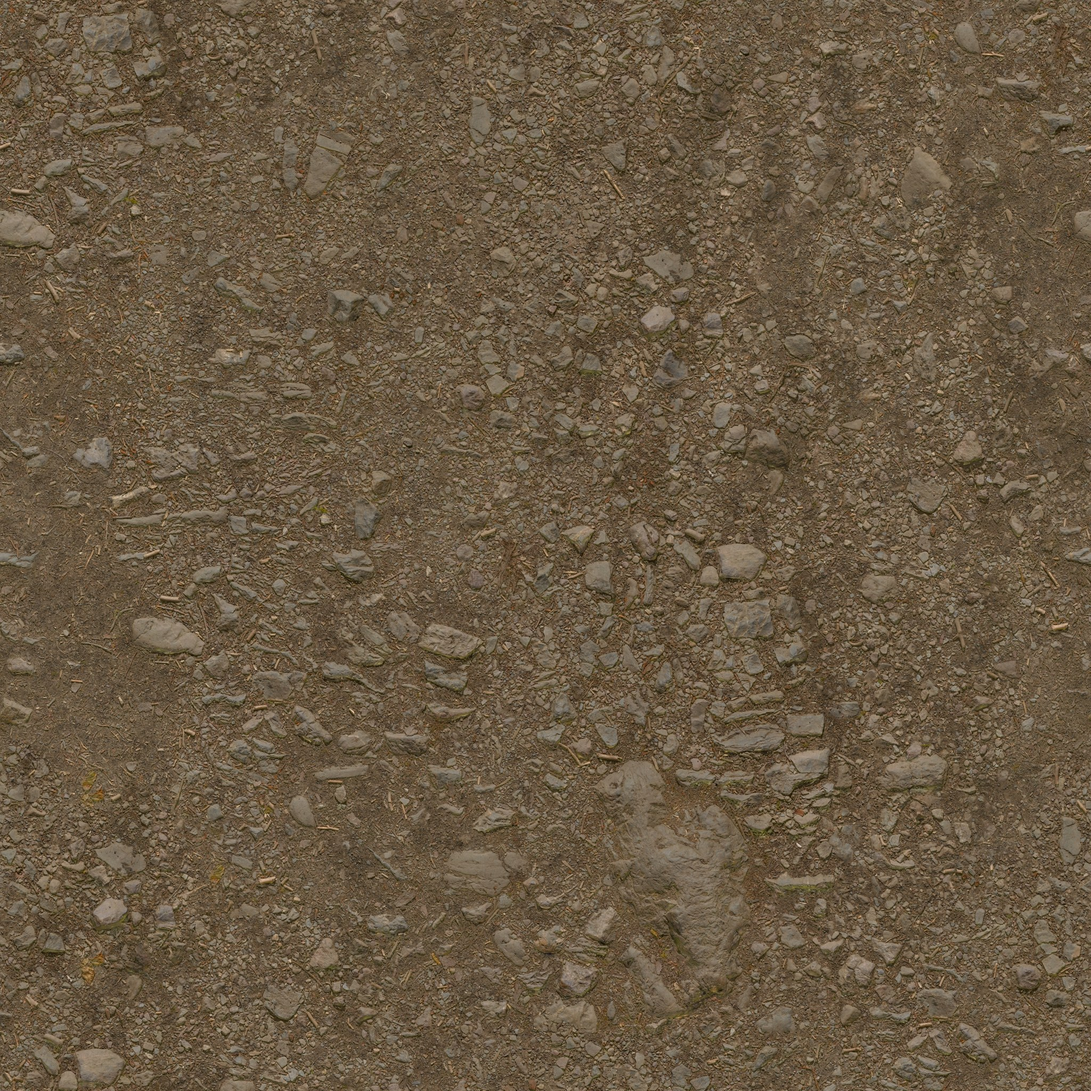
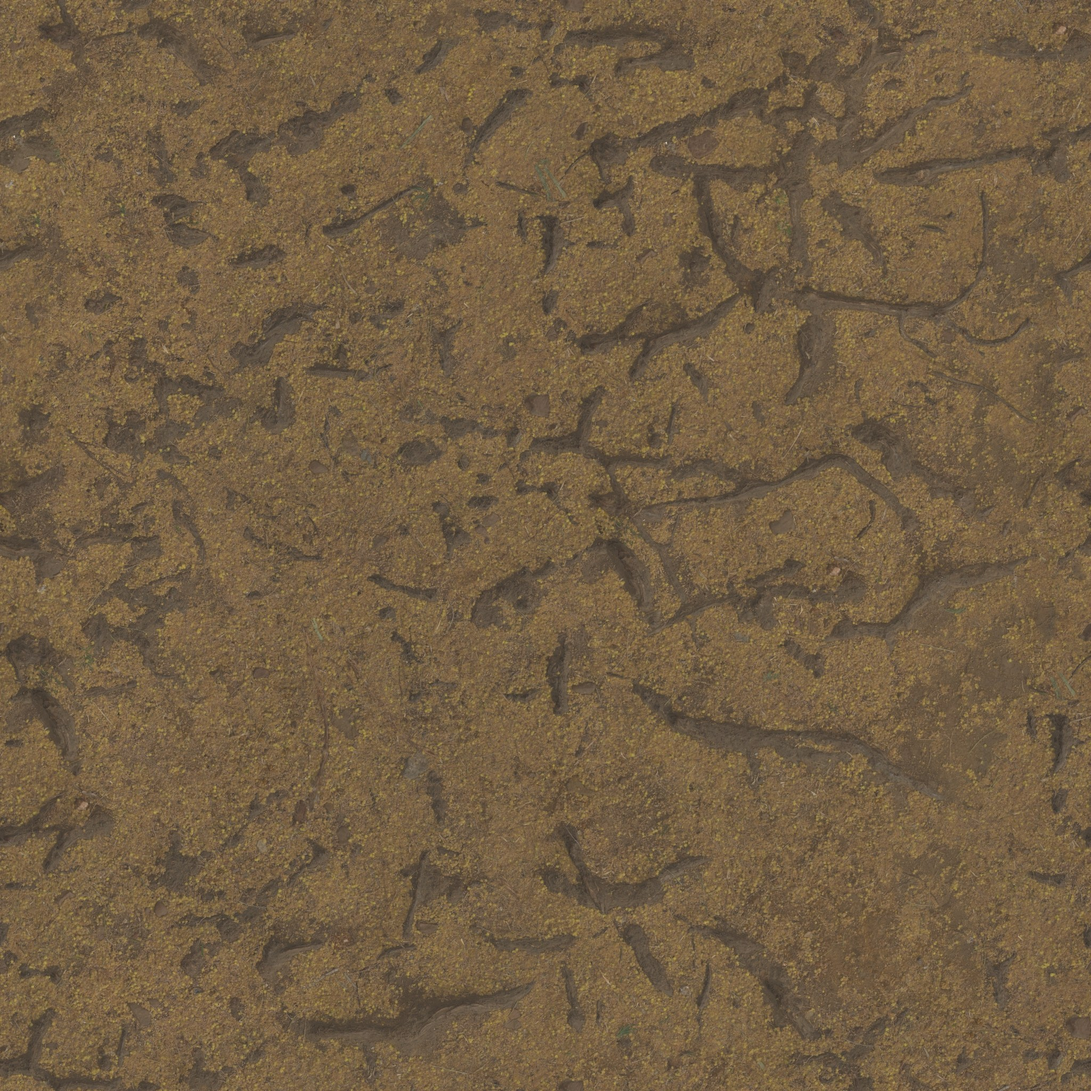
More photographic: neutral tone mapping, root-laced dirt trail, distant cover colour, matte plants
- tone mapping AgX -> Khronos PBR Neutral: sunlit litter keeps its hue instead of bleaching to beige
- trail: Poly Haven 'roots' (packed earth crossed by surface roots) replaces the grey stony ground
- ground beyond the plants' draw distance takes the colour of the vegetation that grows there
  (colonies, grass swards, general low cover), so open slopes do not read as bare sand
- understory drawn further out on phones; plant colonies shade and darken the ground under them
- foliage is matte (no sky sheen whitening blades), grass tinted greener, less ambient lift

Claude-Session: https://claude.ai/code/session_01JGA23ys72UNs4sZjYfki9c

diff --git a/nuri/src/world.js b/nuri/src/world.js
@@ -76,9 +76,10 @@ export class World {
     this.buildOutcrop();
     this.buildRockFaces();
     this.buildWater();
-    this.buildGroundAO();
+    this.colonies = [];
     this.buildPlants();
     this.buildGrass();
+    this.buildGroundAO();
     this.buildShafts();
   }
 
@@ -105,9 +106,24 @@ export class World {
     for (const r of this.rocks) stamp(r.x, r.z, r.x, r.z, r.r * 2 + 0.6, (d) => 1 - 0.55 * Math.exp(-Math.max(0, d - r.r * 0.8) / (0.2 + r.r * 0.3)));
     for (const l of this.logs) stamp(l.x1, l.z1, l.x2, l.z2, l.r * 3 + 0.4, (d) => 1 - 0.55 * Math.exp(-Math.max(0, d - l.r * 0.6) / (0.12 + l.r * 0.5)));
     for (const st of this.stumps) stamp(st.x, st.z, st.x, st.z, st.r * 3 + 0.4, (d) => 1 - 0.5 * Math.exp(-Math.max(0, d - st.r) / (0.15 + st.r * 0.4)));
-    const data = new Uint8Array(N * N);
-    for (let k = 0; k < N * N; k++) data[k] = Math.max(0, Math.min(255, ao[k] * 255));
-    const tex = new THREE.DataTexture(data, N, N, THREE.RedFormat); tex.magFilter = tex.minFilter = THREE.LinearFilter; tex.needsUpdate = true;
+    // the ground under a stand of plants is shaded and damp
+    for (const c of this.colonies || []) stamp(c.x, c.z, c.x, c.z, c.r * 1.2, (d) => 1 - 0.32 * c.k * smoothstep(c.r * 1.1, c.r * 0.3, d));
+    // vegetation cover: beyond the plants' draw distance the ground itself takes on their colour, so open slopes
+    // read as overgrown instead of bare at a distance
+    const cov = new Float32Array(N * N);
+    const covStamp = (x, z, R, k) => {
+      const i0 = Math.max(0, Math.floor((x - R + half) / cell)), i1 = Math.min(N - 1, Math.ceil((x + R + half) / cell));
+      const j0 = Math.max(0, Math.floor((z - R + half) / cell)), j1 = Math.min(N - 1, Math.ceil((z + R + half) / cell));
+      for (let j = j0; j <= j1; j++) for (let i = i0; i <= i1; i++) {
+        const d = Math.hypot(-half + (i + 0.5) * cell - x, -half + (j + 0.5) * cell - z);
+        const v = k * smoothstep(R, R * 0.35, d); const q = j * N + i; cov[q] = 1 - (1 - cov[q]) * (1 - v);
+      }
+    };
+    for (const c of this.colonies || []) covStamp(c.x, c.z, c.r, c.cover);
+    const tu = this.tussocks || []; for (let q = 0; q < tu.length; q += 2) covStamp(tu[q], tu[q + 1], 0.35, 0.5);
+    const data = new Uint8Array(N * N * 2);
+    for (let k = 0; k < N * N; k++) { data[k * 2] = Math.max(0, Math.min(255, ao[k] * 255)); data[k * 2 + 1] = Math.min(255, cov[k] * 255); }
+    const tex = new THREE.DataTexture(data, N, N, THREE.RGFormat); tex.magFilter = tex.minFilter = THREE.LinearFilter; tex.needsUpdate = true;
     const U = T.material.userData.uniforms;
     U.tGroundAO.value = tex; U.uGAOB.value.set(-half, -half, 1 / size, 1 / size);
   }
@@ -669,7 +685,7 @@ export class World {
     const geos = GRASS_SPRITES.map((spr) => grassCardGeometry(spr));
     const CH = 8, density = 7 * tier.grassDensity;
     const mtx = new THREE.Matrix4(), q = new THREE.Quaternion(), s = new THREE.Vector3(), p = new THREE.Vector3();
-    for (let cz = -40; cz < 40; cz += CH) for (let cx = -40; cx < 40; cx += CH) {
+    for (let cz = -48; cz < 48; cz += CH) for (let cx = -48; cx < 48; cx += CH) {
       const items = [[], [], [], [], []];
       // grass grows in tussocks: a few dozen blades from one crown, tussocks gathered into swards, bare litter between
       const nT = Math.floor(CH * CH * density * 0.22);
@@ -678,6 +694,7 @@ export class World {
         const g = this.terrain.grassAt(x0, z0) * (1 - 0.85 * smoothstep(0.2, 0.7, this.canopy(x0, z0))) * smoothstep(0.3, 0.7, this.patch(x0, z0, 0.16, 11));
         if (rnd() > g * 1.8 || this.terrain.isWater(x0, z0)) continue;
         const kk = Math.floor(rnd() * 5), m = 3 + Math.floor(rnd() * 6), R = 0.04 + rnd() * 0.09;
+        (this.tussocks = this.tussocks || []).push(x0, z0);
         for (let j = 0; j < m; j++) { const a = rnd() * 6.28, r = R * Math.sqrt(rnd()); items[rnd() < 0.75 ? kk : Math.floor(rnd() * 5)].push([x0 + Math.cos(a) * r, z0 + Math.sin(a) * r, g * (1 - r / R * 0.4)]); }
       }
       items.forEach((list, k) => {
@@ -738,7 +755,7 @@ export class World {
     };
     const k = tier.fernDensity;
     // generic ecological scatter: density per m^2 * rule(x,z) probability, variants chosen at random
-    const add = (vars, { density, rule, scale, wind = 0, cast = true, align = 0.5, sink = 0.015, radius = 30, area = 84, mat = null, tilt = 0 }) => {
+    const add = (vars, { density, rule, scale, wind = 0, cast = true, align = 0.5, sink = 0.015, radius = 30, area = 93, mat = null, tilt = 0 }) => {
       if (!Array.isArray(vars)) vars = this.variants(vars);
       const lists = vars.map(() => []);
       const n = Math.round(area * area * density * k);
@@ -768,13 +785,14 @@ export class World {
     // litter between them; not single plants sprinkled evenly
     const nearW = (x, z, d) => smoothstep(d, d * 0.3, this.waterDist(x, z));
     const pathD = (x, z) => Math.min(distToPolyline(x, z, PATH).d, distToPolyline(x, z, PATH2).d, distToPolyline(x, z, PATH3).d);
-    const colony = (key, { per100, r: [r0, r1], fill, habitat, scale, wind = 0, radius = 30, cast = false, align = 0.5, sink = 0.015, keep = 0.35 }) => {
+    const colony = (key, { per100, r: [r0, r1], fill, habitat, scale, wind = 0, radius = 30, cast = false, align = 0.5, sink = 0.015, keep = 0.35, cover = 0.8 }) => {
       const vars = this.variants(key), lists = vars.map(() => []);
-      const n = Math.round(84 * 84 / 100 * per100 * k * 2.5);
+      const n = Math.round(93 * 93 / 100 * per100 * k * 2.5);
       for (let c = 0; c < n; c++) {
-        const cx = (rnd() - 0.5) * 84, cz = (rnd() - 0.5) * 84, hab = habitat(cx, cz);
+        const cx = (rnd() - 0.5) * 93, cz = (rnd() - 0.5) * 93, hab = habitat(cx, cz);
         if (hab <= 0 || rnd() > hab) continue;
         const R = (r0 + (r1 - r0) * rnd() ** 1.6) * (0.6 + 0.4 * hab);
+        this.colonies.push({ x: cx, z: cz, r: R, k: Math.min(1, fill / 6), cover });
         const dom = Math.floor(rnd() * vars.length), m = Math.round(Math.PI * R * R * fill * (0.5 + 0.5 * k));
         const ang = rnd() * 6.28, el = 0.55 + rnd() * 0.45;                       // colonies are elongated, not circles
         for (let q = 0; q < m; q++) {
@@ -816,19 +834,19 @@ export class World {
       habitat: (x, z) => offPath(x, z, 1) ? smoothstep(0.1, 0.45, shade(x, z)) * this.patch(x, z, 0.07, 6) : 0 });
     add('shrub_04', { density: 0.01, scale: [0.9, 1.5], wind: 0.02, radius: 34, align: 0.3, rule: (x, z) => offPath(x, z, 1.2) ? this.patch(x, z, 0.06, 7) : 0 });
     // grass swards: along the trail edges and in the sunny gaps
-    colony('grass_medium_01', { per100: 2.0, r: [0.8, 3.5], fill: 6, scale: [0.8, 1.5], wind: 0.025, radius: 16, align: 0.6,
+    colony('grass_medium_01', { per100: 2.0, r: [0.8, 3.5], fill: 6, scale: [0.8, 1.5], wind: 0.025, radius: 26, align: 0.6,
       habitat: (x, z) => offPath(x, z, 0.4) ? smoothstep(0.6, 0.1, shade(x, z)) * (0.35 + 0.65 * smoothstep(3, 0.6, pathD(x, z))) : 0 });
-    colony('grass_medium_02', { per100: 1.4, r: [0.6, 2.8], fill: 5, scale: [0.8, 1.4], wind: 0.025, radius: 16, align: 0.6,
+    colony('grass_medium_02', { per100: 1.4, r: [0.6, 2.8], fill: 5, scale: [0.8, 1.4], wind: 0.025, radius: 26, align: 0.6,
       habitat: (x, z) => offPath(x, z, 0.4) ? smoothstep(0.65, 0.15, shade(x, z)) * (0.3 + this.patch(x, z, 0.15, 32)) : 0 });
     // wood sorrel: carpets in deep conifer shade, around the trunk bases
-    colony('shrub_sorrel_01', { per100: 2.2, r: [0.5, 2.0], fill: 28, scale: [1.0, 1.8], wind: 0.01, radius: 11, align: 0.8,
+    colony('shrub_sorrel_01', { per100: 2.2, r: [0.5, 2.0], fill: 28, scale: [1.0, 1.8], wind: 0.01, radius: 16, align: 0.8,
       habitat: (x, z) => offPath(x, z, 0.5) ? smoothstep(0.35, 0.75, shade(x, z)) * (0.25 + 0.75 * smoothstep(3, 0.6, this.nearestTrunk(x, z).d)) : 0 });
     // lesser celandine: damp margins of the stream and pond
-    colony('celandine_01', { per100: 1.2, r: [0.4, 1.8], fill: 9, scale: [0.9, 1.4], wind: 0.015, radius: 18, align: 0.7,
+    colony('celandine_01', { per100: 1.2, r: [0.4, 1.8], fill: 9, scale: [0.9, 1.4], wind: 0.015, radius: 24, align: 0.7,
       habitat: (x, z) => offPath(x, z, 0.5) ? nearW(x, z, 3.5) : 0 });
     // wildflower drifts in the sunny gaps, one kind per drift
     for (const [kf, seed] of [['flower_heliophila', 36], ['flower_empodium', 37], ['flower_stinkkruid', 38], ['flower_ursinia', 39], ['leipoldtia_schultzei', 40]])
-      colony(kf, { per100: 0.35, r: [0.4, 2.0], fill: 4, scale: [0.6, 1.0], wind: 0.02, radius: 22, align: 0.6,
+      colony(kf, { per100: 0.35, r: [0.4, 2.0], fill: 4, scale: [0.6, 1.0], wind: 0.02, radius: 28, align: 0.6,
         habitat: (x, z) => offPath(x, z, 0.5) ? smoothstep(0.35, 0.05, shade(x, z)) * smoothstep(0.35, 0.7, this.patch(x, z, 0.09, seed)) : 0 });
     colony('shrub_01', { per100: 0.08, r: [0.6, 1.6], fill: 0.5, scale: [0.5, 0.9], wind: 0.03, radius: 36, align: 0.3, cast: true,
       habitat: (x, z) => offPath(x, z, 1.2) ? smoothstep(0.55, 0.2, shade(x, z)) * this.patch(x, z, 0.06, 41) : 0 });

diff --git a/nuri/src/terrain.js b/nuri/src/terrain.js
@@ -273,10 +273,23 @@ export function makeTerrainMaterial(T, tier = {}) {
           TA = mix(TA, TA * vec3(0.86, 0.72, 0.6), m1 * 0.55 * fw * (1.0 - rockK));
           TA = mix(TA, TA * vec3(0.74, 0.86, 0.56), m2 * 0.45 * fw * (1.0 - rockK));
           float far = smoothstep(5.0, 28.0, length(cameraPosition - vWPos));
-          TA *= mix(1.0, 0.8, far * (1.0 - rockK * 0.5));
+          {
+            // overgrown ground seen beyond the plants' draw distance takes their colour
+            float cov = texture2D(tGroundAO, (vWPos.xz - uGAOB.xy) * uGAOB.zw).g;
+            // plus the general low cover (grass tussocks, sorrel, seedlings, moss) every forest floor carries,
+            // which is not drawn as geometry that far out
+            float fwv = vSplat.x / max(1e-3, vSplat.x + vSplat.y + vSplat.z + vSplat.w);
+            cov = max(cov, fwv * (0.35 + 0.45 * smoothstep(0.3, 0.75, vnoise(vWPos.xz * 0.21) * 0.6 + vnoise(vWPos.xz * 0.9 + 3.0) * 0.4)));
+            float dv = smoothstep(9.0, 24.0, length(cameraPosition - vWPos));
+            vec3 veg = vec3(0.075, 0.1, 0.03) * (0.7 + 0.6 * vnoise(vWPos.xz * 1.7)) + vec3(0.03, 0.02, 0.0) * vnoise(vWPos.xz * 0.6);
+            TA = mix(TA, veg, cov * dv * 0.85 * (1.0 - rockK));
+          }
+          // at a distance the litter's small shadows, needles and moss average into a darker, greener brown
+          TA *= mix(1.0, 0.7, far * (1.0 - rockK * 0.5));
+          TA = mix(TA, TA * vec3(0.88, 0.97, 0.78), far * fw * 0.6);
           // forest floor is darker and more saturated than the bare scan suggests (litter is damp, shaded by itself)
           float lum = dot(TA, vec3(0.3, 0.59, 0.11));
-          TA = mix(vec3(lum), TA, 1.18) * 0.86;
+          TA = mix(vec3(lum), TA, 1.06) * 0.88;
         }
         // grass-covered ground is greener and darker beneath the blades
         TA = mix(TA, TA * vec3(0.85, 0.92, 0.75), vAux.x * 0.35);
@@ -335,7 +348,7 @@ export function makeTerrainMaterial(T, tier = {}) {
       .replace('#include <aomap_fragment>', `
         float ambientOcclusion = mix(1.0, TO.r, 0.9);
         ambientOcclusion *= 1.0 - 0.4 * clamp(MK.r, 0.0, 1.0) * MSOFT;   // pressed hollows see less sky
-        float gAO = texture2D(tGroundAO, (vWPos.xz - uGAOB.xy) * uGAOB.zw).r;
+        vec2 gAOs = texture2D(tGroundAO, (vWPos.xz - uGAOB.xy) * uGAOB.zw).rg; float gAO = gAOs.r;
         ambientOcclusion *= gAO;
         reflectedLight.directDiffuse *= mix(1.0, gAO, 0.25);
         // contact occlusion from the robot standing on this ground (and from each boot)

diff --git a/nuri/src/assets.js b/nuri/src/assets.js
@@ -72,7 +72,7 @@ function jsonToGLB(json) {
   return out.buffer;
 }
 export const TERRAIN_LAYERS = ['ph_floor', 'ph_path', 'ph_riverbed', 'ph_mud'];
-export const TERRAIN_SCALES = [1 / 1.5, 1 / 3.15, 1 / 2.9, 1 / 1.3]; // metres covered by each scanned set
+export const TERRAIN_SCALES = [1 / 1.5, 1 / 1.67, 1 / 2.9, 1 / 1.3]; // metres covered by each scanned set
 export const PH_MODELS = ['rock_moss_set_01', 'rock_moss_set_02', 'boulder_01', 'rock_07', 'rock_09', 'stone_01', 'rock_face_01', 'rock_face_02',
   'tree_stump_01', 'tree_stump_02', 'dead_tree_trunk', 'dead_tree_trunk_02', 'root_cluster_02', 'single_root', 'fern_02', 'moss_01',
   'shrub_03', 'shrub_04', 'nettle_plant', 'dandelion_01', 'weed_plant_02', 'dry_branches_medium_01', 'periwinkle_plant',
@@ -216,7 +216,7 @@ export class Assets {
         leafLight(sh, 1.5);
       } });
     M.grass = patchMaterial(new THREE.MeshStandardMaterial({ map: T.grass.map, normalMap: T.grass.normal, alphaTest: 0.42, side: THREE.DoubleSide,
-      roughness: 0.75, metalness: 0, envMapIntensity: 0.5 }), {
+      color: new THREE.Color(0.82, 0.92, 0.66), roughness: 0.9, metalness: 0, envMapIntensity: 0.25 }), {
       ao: false,
       wind: `float flex = uv.y;
              transformed += windOffset(wp0.xyz, 0.03 * flex, wp0.x * 2.1 + wp0.z * 1.3);
@@ -231,7 +231,11 @@ export class Assets {
         if (!o.isMesh || !o.material || o.material.userData.tuned) return;
         const m = o.material; m.userData.tuned = true;
         m.envMapIntensity = 0.8;
-        if (m.alphaTest > 0 || m.transparent) { m.transparent = false; m.alphaTest = 0.45; m.side = THREE.DoubleSide; }
+        if (m.alphaTest > 0 || m.transparent) {
+          m.transparent = false; m.alphaTest = 0.45; m.side = THREE.DoubleSide;
+          // leaves are matte: no glossy sky sheen that turns blades and fronds whitish
+          m.envMapIntensity = 0.35; m.roughness = Math.max(m.roughness, 0.85);
+        }
       });
     }
   }

diff --git a/nuri/src/main.js b/nuri/src/main.js
@@ -41,7 +41,7 @@ async function boot() {
   renderer.setPixelRatio(Math.min(devicePixelRatio, tier.maxDpr));
   renderer.setSize(innerWidth, innerHeight);
   renderer.shadowMap.enabled = true; renderer.shadowMap.type = THREE.PCFSoftShadowMap;
-  renderer.toneMapping = THREE.AgXToneMapping; renderer.toneMappingExposure = 1.05;
+  renderer.toneMapping = THREE.NeutralToneMapping; renderer.toneMappingExposure = 0.9;   // keeps the hue and saturation of sunlit ground (AgX bleaches it to beige)
   renderer.outputColorSpace = THREE.SRGBColorSpace;
 
   const scene = new THREE.Scene();
@@ -489,7 +489,7 @@ async function boot() {
     if (grade) grade.uniforms.uTime.value = G.time;
     fx.updateAmbient(G.time, camera.position, 0.6 + 0.6 * lighting.visibility(camera.position.x, camera.position.y, camera.position.z));
     // eye adaptation + face light + god rays
-    const vis = lighting.update(dt, renderer, 1.0 * (1 + G.rainK * 0.15), camera.position, player.pos);
+    const vis = lighting.update(dt, renderer, 0.92 * (1 + G.rainK * 0.15), camera.position, player.pos);
     faceLight.intensity = (1 - vis) * 0.35;
     if (rays) {
       const sp = tmpV.copy(camera.position).addScaledVector(sunDir, 200).project(camera);

diff --git a/nuri/src/quality.js b/nuri/src/quality.js
@@ -4,7 +4,7 @@ export const isMobile = isTouch || /Android|iPhone|iPad|iPod/i.test(navigator.us
 
 export const TIERS = {
   // phones: a light post chain (depth of field + colour grade) is what makes the image read as a photograph
-  low: { pixelRatio: 1.0, maxDpr: 1.35, shadowMap: 2048, shadowRange: 12, dof: true, dofSamples: 12, pom: 4, grassDensity: 0.45, grassRadius: 15, texSize: 1024,
+  low: { pixelRatio: 1.0, maxDpr: 1.35, shadowMap: 2048, shadowRange: 12, dof: true, dofSamples: 12, pom: 4, grassDensity: 0.45, grassRadius: 22, texSize: 1024,
     post: true, rich: false, bloom: false, rays: false, ao: false, treeLod0Dist: 22, fernDensity: 0.65, msaa: 2, antialias: false, farFog: 55, creatures: 0.6 },
   medium: { pixelRatio: 1.0, maxDpr: 1.75, shadowMap: 2048, shadowRange: 16, dof: true, dofSamples: 19, rich: true, rays: true, pom: 8, grassDensity: 0.65, grassRadius: 16, texSize: 1024,
     post: true, bloom: true, ao: false, treeLod0Dist: 32, fernDensity: 0.8, msaa: 4, antialias: false, farFog: 70, creatures: 1 },

diff --git a/nuri/src/shaders.js b/nuri/src/shaders.js
@@ -144,9 +144,9 @@ export function leafLight(sh, k = 1, fade = [0.03, 0.09]) {
         float svL = 1.0; float back = 0.0;
       #endif
       vec3 tr = diffuseColor.rgb * diffuseColor.rgb * 2.2;                         // light through a leaf is deeper, more saturated
-      outgoingLight += reflectedLight.indirectDiffuse * ${(0.3 * k).toFixed(3)}
+      outgoingLight += reflectedLight.indirectDiffuse * ${(0.12 * k).toFixed(3)}
                      + tr * vec3(1.0, 0.95, 0.6) * back * ${(0.75 * k).toFixed(3)} * mix(0.15, 1.0, svL)
-                     + tr * reflectedLight.indirectDiffuse * ${(0.25 * k).toFixed(3)};
+                     + tr * reflectedLight.indirectDiffuse * ${(0.15 * k).toFixed(3)};
     }
     #include <opaque_fragment>`);
 }

diff --git a/nuri/src/post.js b/nuri/src/post.js
@@ -63,7 +63,7 @@ export function makeGradePass() {
         c = mix(c, c * c * (3.0 - 2.0 * c), 0.2);
         float l = dot(c, vec3(0.299, 0.587, 0.114));
         c += vec3(-0.012, 0.006, 0.01) * (1.0 - l) + vec3(0.018, 0.008, -0.014) * l;
-        c = mix(vec3(l), c, 1.03);
+        c = mix(vec3(l), c, 0.98);
         vec2 q = vUv - 0.5; q.x *= uRes.x / uRes.y;
         c *= 1.0 - uVig * smoothstep(0.35, 1.05, length(q) * 1.3);
         c += (h(vUv * uRes + fract(uTime) * 97.0) - 0.5) * uGrain;

diff --git a/nuri/blender/pack_polyhaven_textures.py b/nuri/blender/pack_polyhaven_textures.py
@@ -8,7 +8,7 @@ SRC, OUT = sys.argv[1], sys.argv[2]
 ONLY = sys.argv[3].split(',') if len(sys.argv) > 3 else None
 os.makedirs(OUT, exist_ok=True)
 SETS = {  # game name -> poly haven id
-    'ph_floor': 'forest_leaves_04', 'ph_path': 'forest_ground_04', 'ph_riverbed': 'river_small_rocks', 'ph_mud': 'brown_mud_leaves_01',
+    'ph_floor': 'forest_leaves_04', 'ph_path': 'roots', 'ph_riverbed': 'river_small_rocks', 'ph_mud': 'brown_mud_leaves_01',
     'ph_rock': 'rock_face_03', 'ph_mossrock': 'mossy_rock', 'ph_lichen': 'lichen_rock', 'ph_bark': 'bark_brown_02', 'ph_gravel': 'rocky_trail',
 }
 def L(p, mode):
